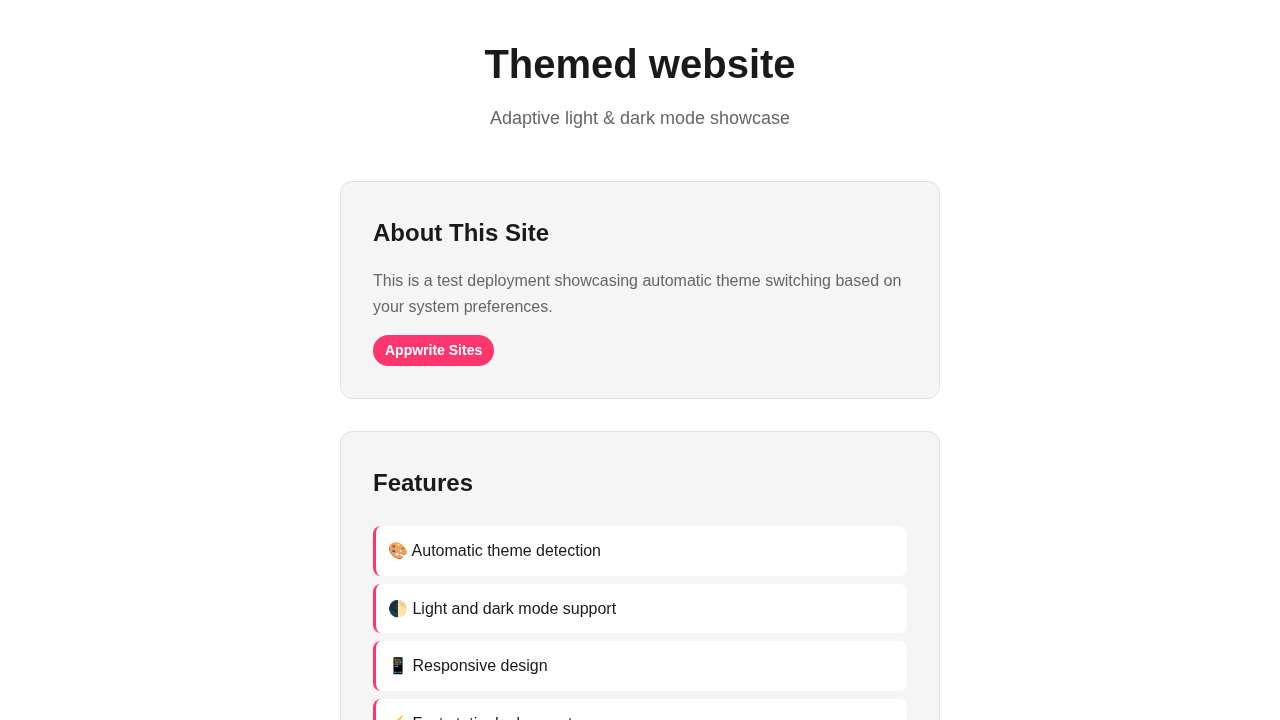
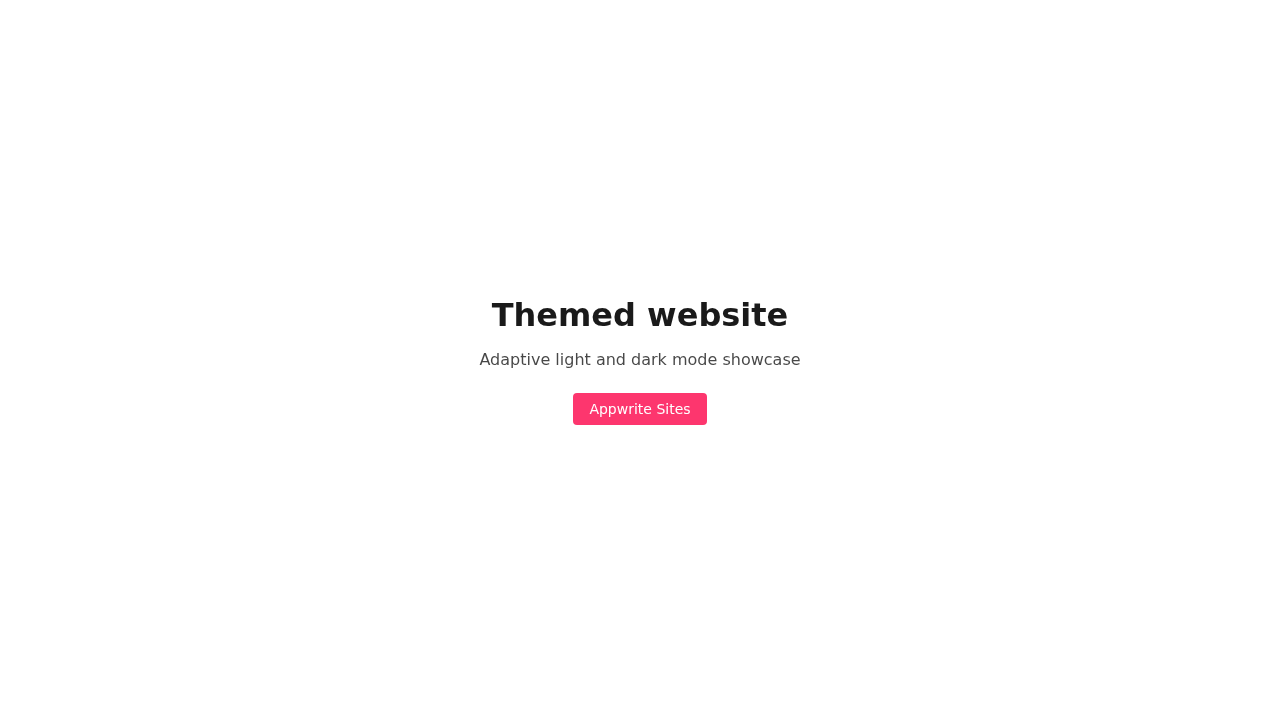
simplify: index.

diff --git a/tests/resources/sites/static-themed/index.html b/tests/resources/sites/static-themed/index.html
@@ -13,137 +13,62 @@
 
         /* Light theme */
         :root {
-            --bg-primary: #ffffff;
-            --bg-secondary: #f5f5f5;
-            --text-primary: #1a1a1a;
-            --text-secondary: #666666;
+            --bg: #ffffff;
+            --text: #1a1a1a;
             --accent: #fd366e;
-            --border: #e0e0e0;
         }
 
         /* Dark theme */
         @media (prefers-color-scheme: dark) {
             :root {
-                --bg-primary: #1a1a1a;
-                --bg-secondary: #2d2d2d;
-                --text-primary: #ffffff;
-                --text-secondary: #b0b0b0;
+                --bg: #1a1a1a;
+                --text: #ffffff;
                 --accent: #fd366e;
-                --border: #404040;
             }
         }
 
         body {
-            font-family: -apple-system, BlinkMacSystemFont, 'Segoe UI', Roboto, Oxygen, Ubuntu, Cantarell, sans-serif;
-            background-color: var(--bg-primary);
-            color: var(--text-primary);
-            line-height: 1.6;
+            font-family: system-ui, sans-serif;
+            background-color: var(--bg);
+            color: var(--text);
             min-height: 100vh;
             display: flex;
-            flex-direction: column;
             align-items: center;
             justify-content: center;
             padding: 2rem;
         }
 
-        .container {
-            max-width: 600px;
-            width: 100%;
-        }
-
-        header {
+        .content {
+            max-width: 500px;
             text-align: center;
-            margin-bottom: 3rem;
         }
 
         h1 {
-            font-size: 2.5rem;
-            margin-bottom: 0.5rem;
-            color: var(--text-primary);
-        }
-
-        .subtitle {
-            font-size: 1.125rem;
-            color: var(--text-secondary);
-        }
-
-        .card {
-            background-color: var(--bg-secondary);
-            border: 1px solid var(--border);
-            border-radius: 12px;
-            padding: 2rem;
-            margin-bottom: 2rem;
-        }
-
-        .card h2 {
-            font-size: 1.5rem;
-            margin-bottom: 1rem;
-            color: var(--text-primary);
-        }
-
-        .card p {
-            color: var(--text-secondary);
+            font-size: 2rem;
             margin-bottom: 1rem;
         }
 
-        .feature-list {
-            list-style: none;
-            margin-top: 1.5rem;
-        }
-
-        .feature-list li {
-            padding: 0.75rem;
-            margin-bottom: 0.5rem;
-            background-color: var(--bg-primary);
-            border-radius: 8px;
-            border-left: 3px solid var(--accent);
-            color: var(--text-primary);
+        p {
+            font-size: 1rem;
+            margin-bottom: 1.5rem;
+            opacity: 0.8;
         }
 
         .badge {
             display: inline-block;
-            padding: 0.25rem 0.75rem;
+            padding: 0.5rem 1rem;
             background-color: var(--accent);
             color: white;
-            border-radius: 20px;
-            font-size: 0.875rem;
-            font-weight: 600;
-        }
-
-        footer {
-            text-align: center;
-            margin-top: 3rem;
-            color: var(--text-secondary);
+            border-radius: 4px;
             font-size: 0.875rem;
         }
     </style>
 </head>
 <body>
-<div class="container">
-    <header>
+    <div class="content">
         <h1>Themed website</h1>
-        <p class="subtitle">Adaptive light & dark mode showcase</p>
-    </header>
-
-    <div class="card">
-        <h2>About This Site</h2>
-        <p>This is a test deployment showcasing automatic theme switching based on your system preferences.</p>
-        <span class="badge">Appwrite Sites</span>
+        <p>Adaptive light and dark mode showcase</p>
+        <div class="badge">Appwrite Sites</div>
     </div>
-
-    <div class="card">
-        <h2>Features</h2>
-        <ul class="feature-list">
-            <li>🎨 Automatic theme detection</li>
-            <li>🌓 Light and dark mode support</li>
-            <li>📱 Responsive design</li>
-            <li>⚡ Fast static deployment</li>
-        </ul>
-    </div>
-
-    <footer>
-        <p>Powered by Appwrite Sites • E2E Test</p>
-    </footer>
-</div>
 </body>
 </html>
